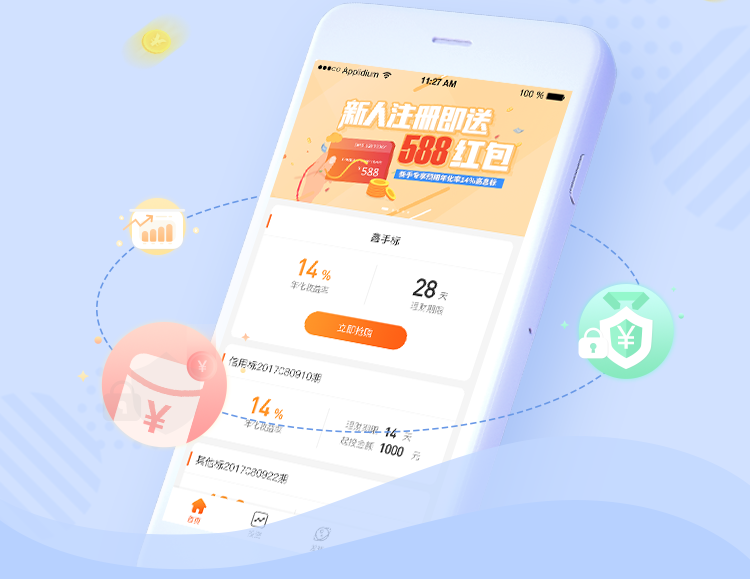
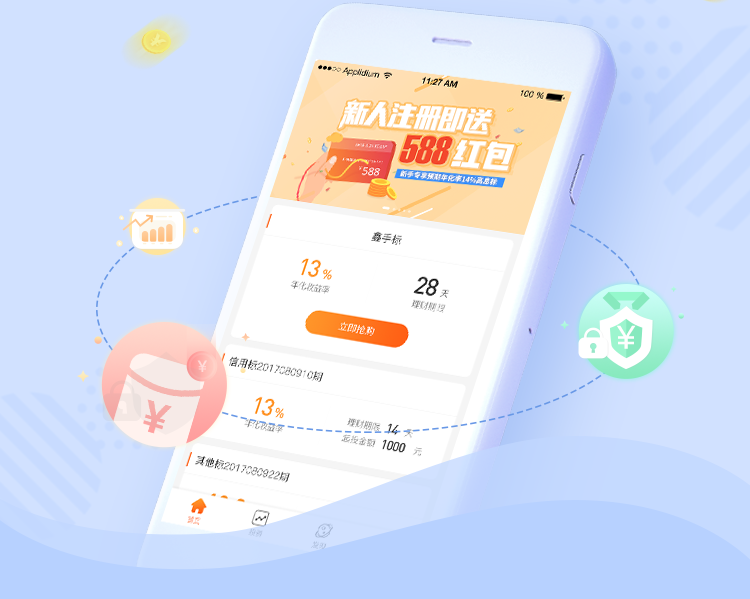
11.7

diff --git a/friendsShare.html b/friendsShare.html
@@ -19,7 +19,7 @@
             <img src="http://xlstyle.oss-cn-hangzhou.aliyuncs.com/xinlu-h5/images/share_banner.png" alt="">
         </div>
         <div class="register" id="register">
-            <form action="">
+            <form action="aboutUs.html" method="post">
                 <ul class="register_ul">
                     <li>
                         <div class="icon_01">
@@ -62,12 +62,12 @@
         </div>
         <div class="bottom_content" style="background: #b7d1ff;">
             <p class="text_05" style="margin-left:-0.4rem">“</p>
-            <p class="text_03" style="color:#fff;padding-bottom:0.5rem;">最高预期年化率14%，时间短！收益高！起投低！投资就能看到涨</p>
+            <p class="text_03" style="color:#fff;padding-bottom:0.5rem;">最高预期年化率13%，时间短！收益高！起投低！投资就能看到涨</p>
             <ul class="bottom_ul clearfloat" style="background: #b7d1ff;">
                 <li>
                     <img src="http://xlstyle.oss-cn-hangzhou.aliyuncs.com/xinlu-h5/images/share_04.png">
                     <p style="color:#ffa303;">预期年化收益</p>
-                    <p style="color:#ffa303;">14.00%</p>
+                    <p style="color:#ffa303;">13.00%</p>
                     <div style="background-color:#ffa303;"></div>
                 </li>
                 <li>
@@ -133,7 +133,15 @@
         } else {
             $(".draw").removeAttr("disabled").removeAttr("id");
             return true;
-            window.location.href = "downloadApp.html";
+            // $.ajax({
+            //     type: 'post',
+            //     dataType: 'json',
+            //     data: {},
+            //     url: '',
+            //     success: function(){
+            //         // window.location.href = "downloadApp.html";
+            //     }
+            // }) 
         }
     })
     // 点击立即注册时的判断

diff --git a/registerGift.html b/registerGift.html
@@ -35,12 +35,12 @@
             </div>
             <div class="bottom_content">
                 <p class="text_05" style="margin-left:-0.4rem">“</p>
-                <p class="text_03" style="color:#fff;padding-bottom:0.5rem;">最高预期年化率14%，时间短！收益高！起投低！投资就能看到涨</p>
+                <p class="text_03" style="color:#fff;padding-bottom:0.5rem;">最高预期年化率13%，时间短！收益高！起投低！投资就能看到涨</p>
                 <ul class="bottom_ul clearfloat">
                     <li>
                         <img src="http://xlstyle.oss-cn-hangzhou.aliyuncs.com/xinlu-h5/images/register_img04.png">
                         <p>预期年化收益</p>
-                        <p>14.00%</p>
+                        <p>13.00%</p>
                         <div></div>
                     </li>
                     <li>

diff --git a/product.html b/product.html
@@ -25,7 +25,7 @@
                         <p>鑫手标</p>
                     </div>
                     <p>
-                        <b>“鑫手标”</b>是为鑫路金融新注册用户推出的专享福利标，每位用户都可享受14%的高年化收益，且“鑫手标”同样可使用红包，是新用户了解平台、熟悉流程的首选标的。</p>
+                        <b>“鑫手标”</b>是为鑫路金融新注册用户推出的专享福利标，每位用户都可享受13%的高年化收益，且“鑫手标”同样可使用红包，是新用户了解平台、熟悉流程的首选标的。</p>
                 </li>
                 <li>
                     <div class="btn">
